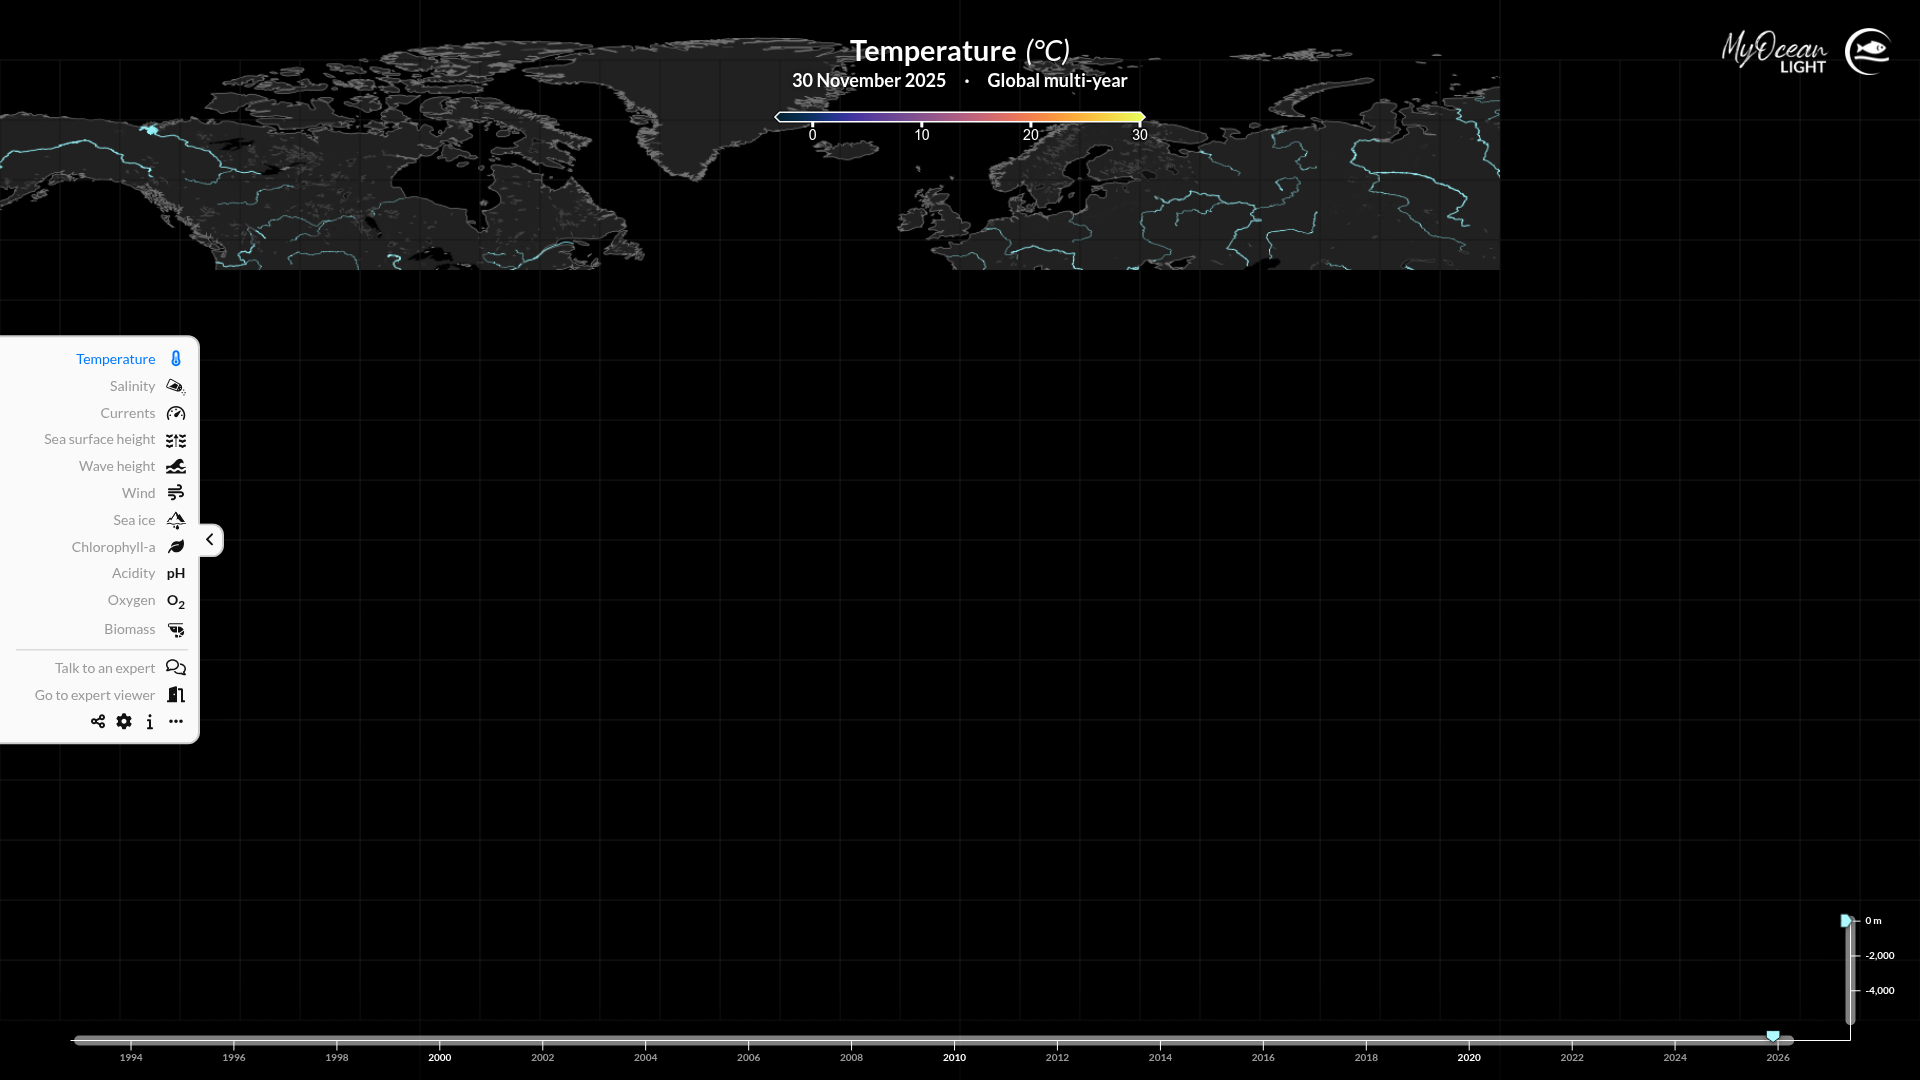
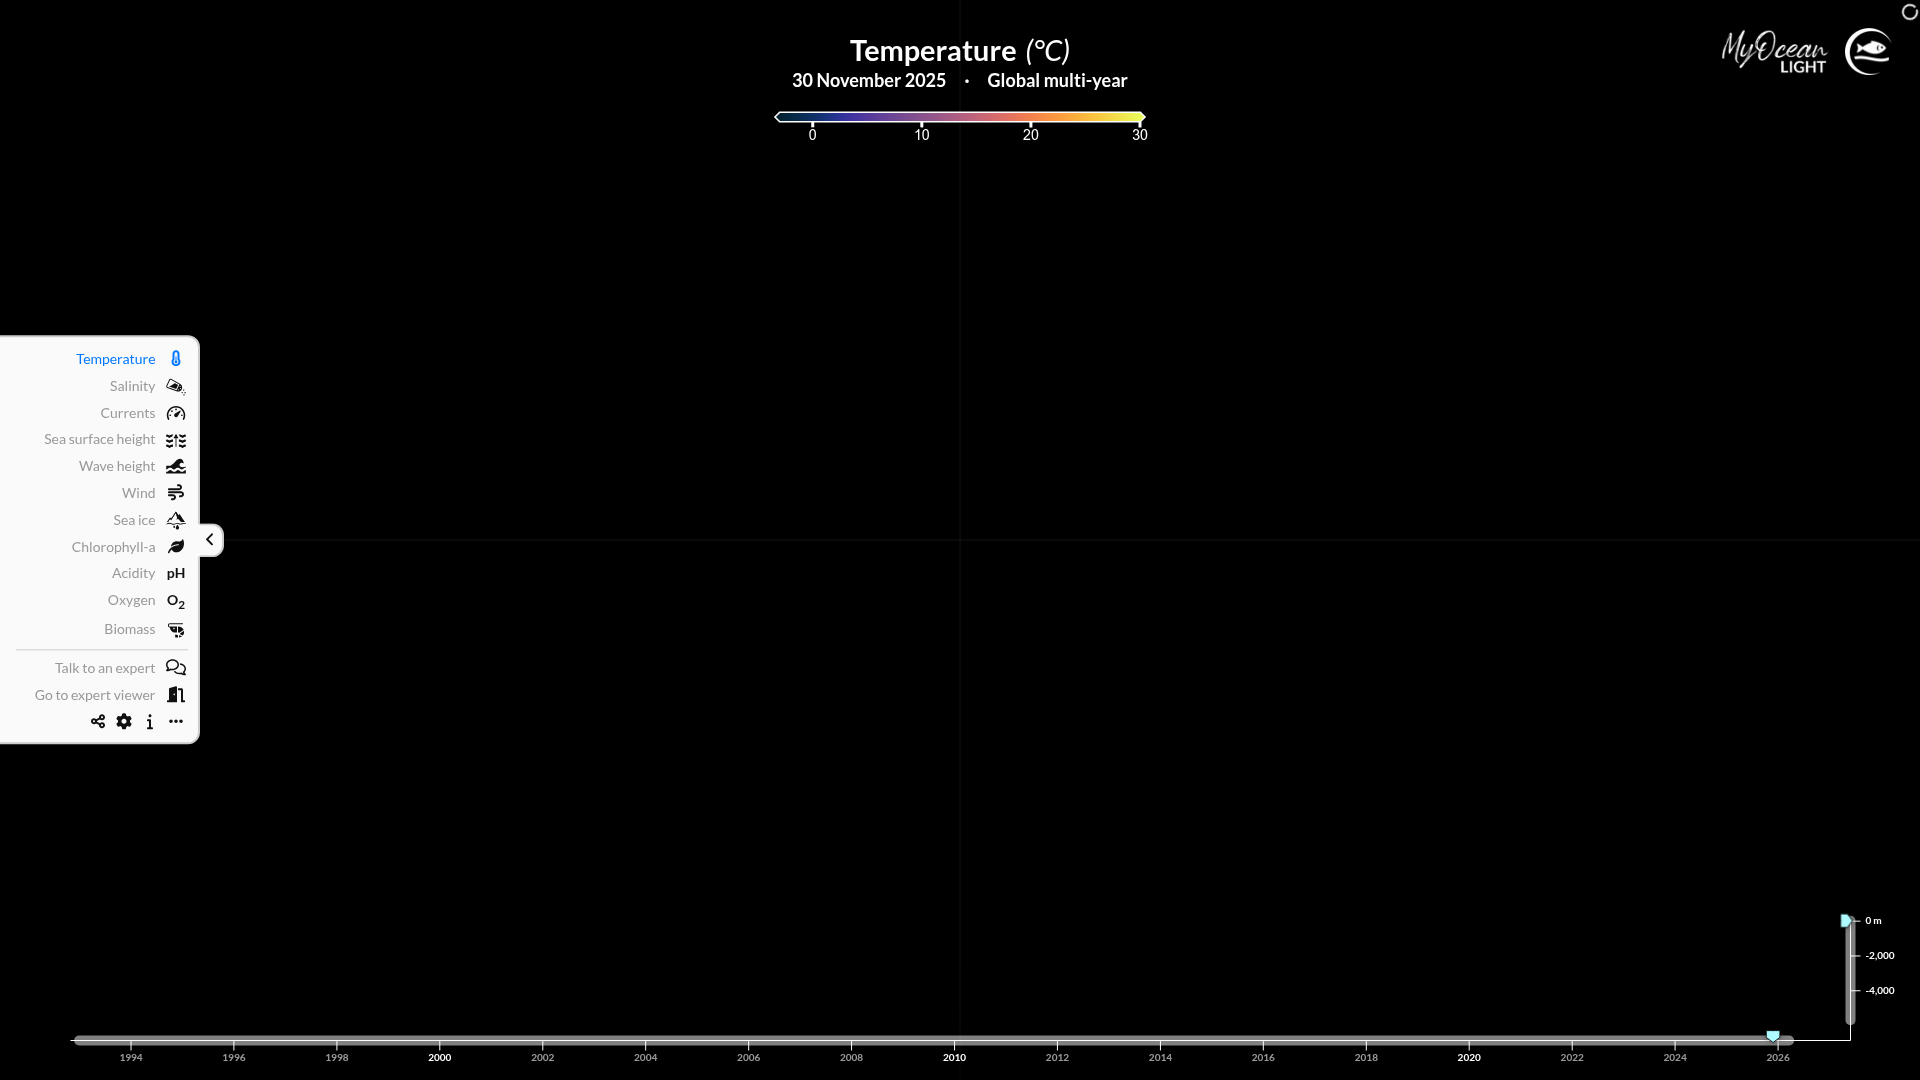
Add five new live ocean data layers and clean up code
Update the map component to include temperature, salinity, currents, sea surface height, sea ice, wave height, wind speed, and biomass layers, while also refactoring product ID constants and the live date function.

Replit-Commit-Author: Agent
Replit-Commit-Session-Id: 7d1dcc90-eea0-47d6-9715-3233a8e99136
Replit-Commit-Checkpoint-Type: full_checkpoint
Replit-Commit-Event-Id: 69e73114-063c-4717-836b-867dae5a82a9
Replit-Commit-Screenshot-Url: https://storage.googleapis.com/screenshot-production-us-central1/8485d33b-dfb1-4674-a90f-db10b4e44703/7d1dcc90-eea0-47d6-9715-3233a8e99136/OVJQmvr
Replit-Helium-Checkpoint-Created: true

Changed region(s): [[0.0, 0.0306, 0.4688, 0.275], [0.4688, 0.0306, 0.7812, 0.275]]

diff --git a/client/src/components/ReefMap.tsx b/client/src/components/ReefMap.tsx
@@ -498,34 +498,61 @@ type LiveLayer = {
   product: string; dataset: string; elevation: number | null;
   time: () => string; toolboxId: string;
 };
-type LiveVar = "analysed_sst" | "zos" | "thetao" | "so" | "ph" | "o2" | "nppv";
+type LiveVar =
+  | "thetao" | "so" | "sea_water_velocity" | "zos" | "VHM0" | "wind" | "siconc"
+  | "analysed_sst" | "ph" | "o2" | "phyc" | "nppv";
 
-function liveDate(daysBack: number): string {
+function liveDate(daysBack: number, hour = "00:00:00"): string {
   const d = new Date(); d.setDate(d.getDate() - daysBack);
-  return d.toISOString().slice(0, 10) + "T00:00:00Z";
+  return d.toISOString().slice(0, 10) + "T" + hour + "Z";
 }
 
+const PHY = "GLOBAL_ANALYSISFORECAST_PHY_001_024";
+const BGC = "GLOBAL_ANALYSISFORECAST_BGC_001_028";
+const SST = "SST_GLO_SST_L4_NRT_OBSERVATIONS_010_001";
+const WAV = "GLOBAL_ANALYSISFORECAST_WAV_001_027";
+const WND = "WIND_GLO_PHY_L4_NRT_012_004";
+
 const LIVE_LAYERS: LiveLayer[] = [
-  { var: "analysed_sst", label: "Sea Surface Temp.",  unit: "°C · NRT daily",         color: "#ff6b6b", cmap: "thermal",
-    product: "SST_GLO_SST_L4_NRT_OBSERVATIONS_010_001", dataset: "METOFFICE-GLO-SST-L4-NRT-OBS-SST-V2",
-    elevation: null,   time: () => liveDate(2), toolboxId: "SST_GLO_SST_L4_NRT_OBSERVATIONS_010_001" },
-  { var: "zos",          label: "Sea Surface Height", unit: "m · hourly forecast",     color: "#74b9ff", cmap: "balance",
-    product: "GLOBAL_ANALYSISFORECAST_PHY_001_024",     dataset: "cmems_mod_glo_phy_anfc_0.083deg_PT1H-m_202406",
-    elevation: null,   time: () => liveDate(1), toolboxId: "cmems_mod_glo_phy_anfc_0.083deg_PT1H-m_202406" },
-  { var: "thetao",       label: "Ocean Temperature",  unit: "°C · 6H · 0.5 m depth",  color: "#e17055", cmap: "thermal",
-    product: "GLOBAL_ANALYSISFORECAST_PHY_001_024",     dataset: "cmems_mod_glo_phy-thetao_anfc_0.083deg_PT6H-i_202406",
-    elevation: -0.494, time: () => liveDate(1), toolboxId: "cmems_mod_glo_phy-thetao_anfc_0.083deg_PT6H-i_202406" },
-  { var: "so",           label: "Salinity",           unit: "PSU · 6H · 0.5 m depth", color: "#a29bfe", cmap: "haline",
-    product: "GLOBAL_ANALYSISFORECAST_PHY_001_024",     dataset: "cmems_mod_glo_phy-so_anfc_0.083deg_PT6H-i_202406",
-    elevation: -0.494, time: () => liveDate(1), toolboxId: "cmems_mod_glo_phy-so_anfc_0.083deg_PT6H-i_202406" },
-  { var: "ph",           label: "Ocean pH",           unit: "pH · monthly BGC",        color: "#fd79a8", cmap: "ice",
-    product: "GLOBAL_ANALYSISFORECAST_BGC_001_028",     dataset: "cmems_mod_glo_bgc-car_anfc_0.25deg_P1M-m_202311",
+  // ── Ocean Physics (PHY_001_024) ────────────────────────────────────────────
+  { var: "thetao",           label: "Temperature",       unit: "°C · 6H · 0.5 m",       color: "#e17055", cmap: "thermal",
+    product: PHY, dataset: "cmems_mod_glo_phy-thetao_anfc_0.083deg_PT6H-i_202406",
+    elevation: -0.494, time: () => liveDate(1),         toolboxId: "cmems_mod_glo_phy-thetao_anfc_0.083deg_PT6H-i_202406" },
+  { var: "so",               label: "Salinity",          unit: "PSU · 6H · 0.5 m",       color: "#a29bfe", cmap: "haline",
+    product: PHY, dataset: "cmems_mod_glo_phy-so_anfc_0.083deg_PT6H-i_202406",
+    elevation: -0.494, time: () => liveDate(1),         toolboxId: "cmems_mod_glo_phy-so_anfc_0.083deg_PT6H-i_202406" },
+  { var: "sea_water_velocity",label: "Currents",         unit: "m s⁻¹ · hourly · 0.5 m",color: "#00cec9", cmap: "speed",
+    product: PHY, dataset: "cmems_mod_glo_phy_anfc_0.083deg_PT1H-m_202406",
+    elevation: -0.494, time: () => liveDate(1),         toolboxId: "cmems_mod_glo_phy_anfc_0.083deg_PT1H-m_202406" },
+  { var: "zos",              label: "Sea Surface Height",unit: "m · hourly",              color: "#74b9ff", cmap: "balance",
+    product: PHY, dataset: "cmems_mod_glo_phy_anfc_0.083deg_PT1H-m_202406",
+    elevation: null,   time: () => liveDate(1),         toolboxId: "cmems_mod_glo_phy_anfc_0.083deg_PT1H-m_202406" },
+  { var: "siconc",           label: "Sea Ice",           unit: "fraction · daily",        color: "#dfe6e9", cmap: "ice",
+    product: PHY, dataset: "cmems_mod_glo_phy_anfc_0.083deg_P1D-m_202406",
+    elevation: null,   time: () => liveDate(2),         toolboxId: "cmems_mod_glo_phy_anfc_0.083deg_P1D-m_202406" },
+  // ── Wave & Wind ────────────────────────────────────────────────────────────
+  { var: "VHM0",             label: "Wave Height",       unit: "m · 3H forecast",         color: "#6c5ce7", cmap: "matter",
+    product: WAV, dataset: "cmems_mod_glo_wav_anfc_0.083deg_PT3H-i_202411",
+    elevation: null,   time: () => liveDate(1, "03:00:00"), toolboxId: "cmems_mod_glo_wav_anfc_0.083deg_PT3H-i_202411" },
+  { var: "wind",             label: "Wind Speed",        unit: "m s⁻¹ · hourly NRT",     color: "#fdcb6e", cmap: "speed",
+    product: WND, dataset: "cmems_obs-wind_glo_phy_nrt_l4_0.125deg_PT1H_202207",
+    elevation: null,   time: () => "2023-11-20T00:00:00Z", toolboxId: "cmems_obs-wind_glo_phy_nrt_l4_0.125deg_PT1H_202207" },
+  // ── SST NRT ────────────────────────────────────────────────────────────────
+  { var: "analysed_sst",     label: "Sea Surface Temp.", unit: "°C · NRT daily",          color: "#ff6b6b", cmap: "thermal",
+    product: SST, dataset: "METOFFICE-GLO-SST-L4-NRT-OBS-SST-V2",
+    elevation: null,   time: () => liveDate(2),         toolboxId: SST },
+  // ── Ocean BGC (BGC_001_028) ────────────────────────────────────────────────
+  { var: "ph",               label: "Acidity (pH)",      unit: "pH · monthly",            color: "#fd79a8", cmap: "ice",
+    product: BGC, dataset: "cmems_mod_glo_bgc-car_anfc_0.25deg_P1M-m_202311",
     elevation: -0.494, time: () => "2024-01-01T00:00:00Z", toolboxId: "cmems_mod_glo_bgc-car_anfc_0.25deg_P1M-m_202311" },
-  { var: "o2",           label: "Dissolved Oxygen",   unit: "mmol m⁻³ · monthly",      color: "#55efc4", cmap: "dense",
-    product: "GLOBAL_ANALYSISFORECAST_BGC_001_028",     dataset: "cmems_mod_glo_bgc-bio_anfc_0.25deg_P1M-m_202311",
+  { var: "o2",               label: "Oxygen",            unit: "mmol m⁻³ · monthly",      color: "#55efc4", cmap: "dense",
+    product: BGC, dataset: "cmems_mod_glo_bgc-bio_anfc_0.25deg_P1M-m_202311",
     elevation: -0.494, time: () => "2024-01-01T00:00:00Z", toolboxId: "cmems_mod_glo_bgc-bio_anfc_0.25deg_P1M-m_202311" },
-  { var: "nppv",         label: "Primary Production", unit: "mgC m⁻³ d⁻¹ · monthly",  color: "#26de81", cmap: "amp",
-    product: "GLOBAL_ANALYSISFORECAST_BGC_001_028",     dataset: "cmems_mod_glo_bgc-bio_anfc_0.25deg_P1M-m_202311",
+  { var: "phyc",             label: "Biomass",           unit: "mgC m⁻³ · monthly",       color: "#26de81", cmap: "amp",
+    product: BGC, dataset: "cmems_mod_glo_bgc-pft_anfc_0.25deg_P1M-m_202311",
+    elevation: null,   time: () => "2024-01-01T00:00:00Z", toolboxId: "cmems_mod_glo_bgc-pft_anfc_0.25deg_P1M-m_202311" },
+  { var: "nppv",             label: "Primary Production",unit: "mgC m⁻³ d⁻¹ · monthly",  color: "#00b894", cmap: "algae",
+    product: BGC, dataset: "cmems_mod_glo_bgc-bio_anfc_0.25deg_P1M-m_202311",
     elevation: null,   time: () => "2024-01-01T00:00:00Z", toolboxId: "cmems_mod_glo_bgc-bio_anfc_0.25deg_P1M-m_202311" },
 ];
 
@@ -1123,7 +1150,7 @@ function ExpandedMapModal({
               )}
 
               <div style={{ fontSize: 7, color: "#d4e9f325", marginTop: activeLiveVar ? 0 : 4, lineHeight: 1.4 }}>
-                PHY_001_024 · BGC_001_028 · SST NRT · Mercator Ocean / CMEMS
+                PHY_001_024 · BGC_001_028 · WAV_001_027 · WIND_L4_NRT · SST NRT · Mercator Ocean / CMEMS
               </div>
             </div>
 
@@ -2009,13 +2036,20 @@ export function ReefMap({
                         <option value="analysed_sst">Sea Surface Temp. (NRT daily)</option>
                       </optgroup>
                       <optgroup label="Physics Forecast">
-                        <option value="zos">Sea Surface Height (hourly)</option>
-                        <option value="thetao">Ocean Temperature (6H · 0.5 m)</option>
+                        <option value="thetao">Temperature (6H · 0.5 m)</option>
                         <option value="so">Salinity (6H · 0.5 m)</option>
+                        <option value="sea_water_velocity">Currents (hourly · 0.5 m)</option>
+                        <option value="zos">Sea Surface Height (hourly)</option>
+                        <option value="siconc">Sea Ice (daily)</option>
+                      </optgroup>
+                      <optgroup label="Wave & Wind">
+                        <option value="VHM0">Wave Height (3H)</option>
+                        <option value="wind">Wind Speed (NRT)</option>
                       </optgroup>
                       <optgroup label="BGC Forecast">
-                        <option value="ph">Ocean pH (monthly)</option>
-                        <option value="o2">Dissolved Oxygen (monthly)</option>
+                        <option value="ph">Acidity / pH (monthly)</option>
+                        <option value="o2">Oxygen (monthly)</option>
+                        <option value="phyc">Biomass (monthly)</option>
                         <option value="nppv">Primary Production (monthly)</option>
                       </optgroup>
                     </select>

diff --git a/replit.md b/replit.md
@@ -39,7 +39,7 @@ client/src/
   components/
     PrivyLoginButton.tsx                  — Calls login() for Privy's native modal
     OrcidLoginButton.tsx                  — ORCID OAuth login button (redirects to /api/auth/orcid)
-    ReefMap.tsx                           — Leaflet map: Esri Ocean basemap + MarineRegions EEZ WMS + CoralMapping reef regions (29 polygons) + GCRMN region polygons (10 regions, shapefile via /api/gcrmn/regions) + GCRMN territory sites (CircleMarkers, static array) + WCS ReefCloud Sites (14,501 pts, purple #e056fd, /api/wcs/reefcloud-sites, off by default) + WCS Coral Cover Sites (4,766 pts, pink #ff6b9d, /api/wcs/cc-sites, off by default) + DAO member pins + reef photo markers. Expanded modal has a 240 px side panel with LayerToggles, GCRMN region legend, Map Key, WCS Marine Datasets SideSection, and full Data Sources list. Two Copernicus Marine WMTS layer groups: (1) Satellite·CMS — 10 phytoplankton vars (CHL/DIATO/DINO/GREEN/HAPTO/MICRO/NANO/PICO/PROCHLO/PROKAR) from OCEANCOLOUR_GLO_BGC_L4_MY_009_104 with monthly time navigator (1997-09→2026-03); (2) Ocean State·Live — 7 live vars (SST NRT daily, SSH hourly, Ocean Temp 6H, Salinity 6H, Ocean pH monthly, Dissolved O₂ monthly, Primary Production monthly) from GLOBAL_ANALYSISFORECAST_PHY_001_024 + GLOBAL_ANALYSISFORECAST_BGC_001_028 + SST_GLO_SST_L4_NRT_OBSERVATIONS_010_001. Both groups have Copernicus Marine Toolbox download panel (pip/CLI/Python). © Mercator Ocean International / CMEMS.
+    ReefMap.tsx                           — Leaflet map: Esri Ocean basemap + MarineRegions EEZ WMS + CoralMapping reef regions (29 polygons) + GCRMN region polygons (10 regions, shapefile via /api/gcrmn/regions) + GCRMN territory sites (CircleMarkers, static array) + WCS ReefCloud Sites (14,501 pts, purple #e056fd, /api/wcs/reefcloud-sites, off by default) + WCS Coral Cover Sites (4,766 pts, pink #ff6b9d, /api/wcs/cc-sites, off by default) + DAO member pins + reef photo markers. Expanded modal has a 240 px side panel with LayerToggles, GCRMN region legend, Map Key, WCS Marine Datasets SideSection, and full Data Sources list. Two Copernicus Marine WMTS layer groups: (1) Satellite·CMS — 10 phytoplankton vars (CHL/DIATO/DINO/GREEN/HAPTO/MICRO/NANO/PICO/PROCHLO/PROKAR) from OCEANCOLOUR_GLO_BGC_L4_MY_009_104 with monthly time navigator (1997-09→2026-03); (2) Ocean State·Live — 12 live vars matching MyOcean Light Viewer: Temperature (thetao 6H), Salinity (so 6H), Currents (sea_water_velocity hourly), Sea Surface Height (zos hourly), Sea Ice (siconc daily), Wave Height (VHM0 3H), Wind Speed (wind NRT), SST NRT (analysed_sst daily), Acidity/pH (ph monthly), Oxygen (o2 monthly), Biomass (phyc monthly), Primary Production (nppv monthly) — from PHY_001_024 + BGC_001_028 + WAV_001_027 + WIND_L4_NRT_012_004 + SST_NRT_010_001. Both groups have Copernicus Marine Toolbox download panel (pip/CLI/Python). © Mercator Ocean International / CMEMS.
   hooks/
     use-profile-sync.ts                   — Auto-syncs Privy user to DB on login; awards first-login bonus points
     use-geolocation.ts                    — Requests browser geolocation once per session; POSTs to /api/profiles/location